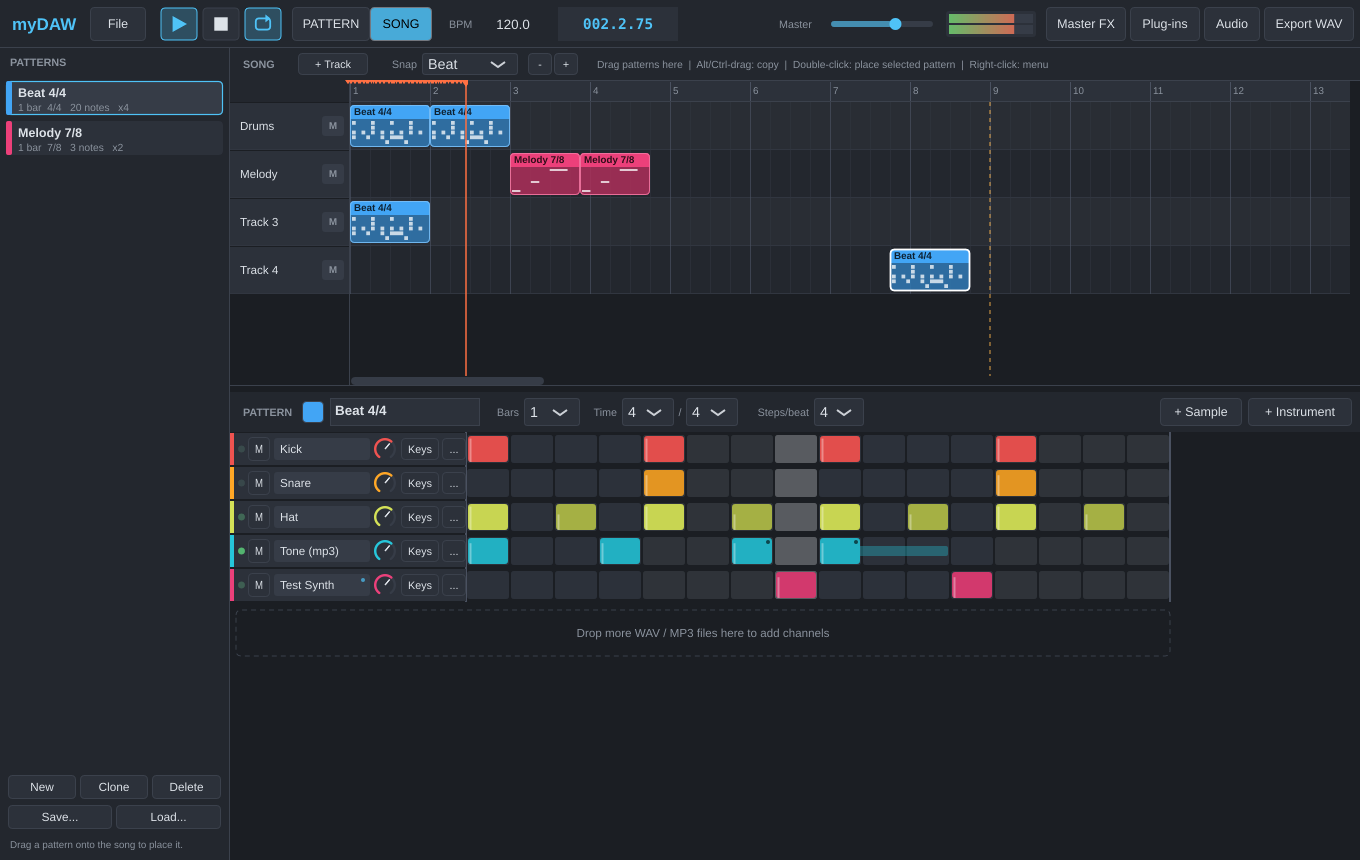
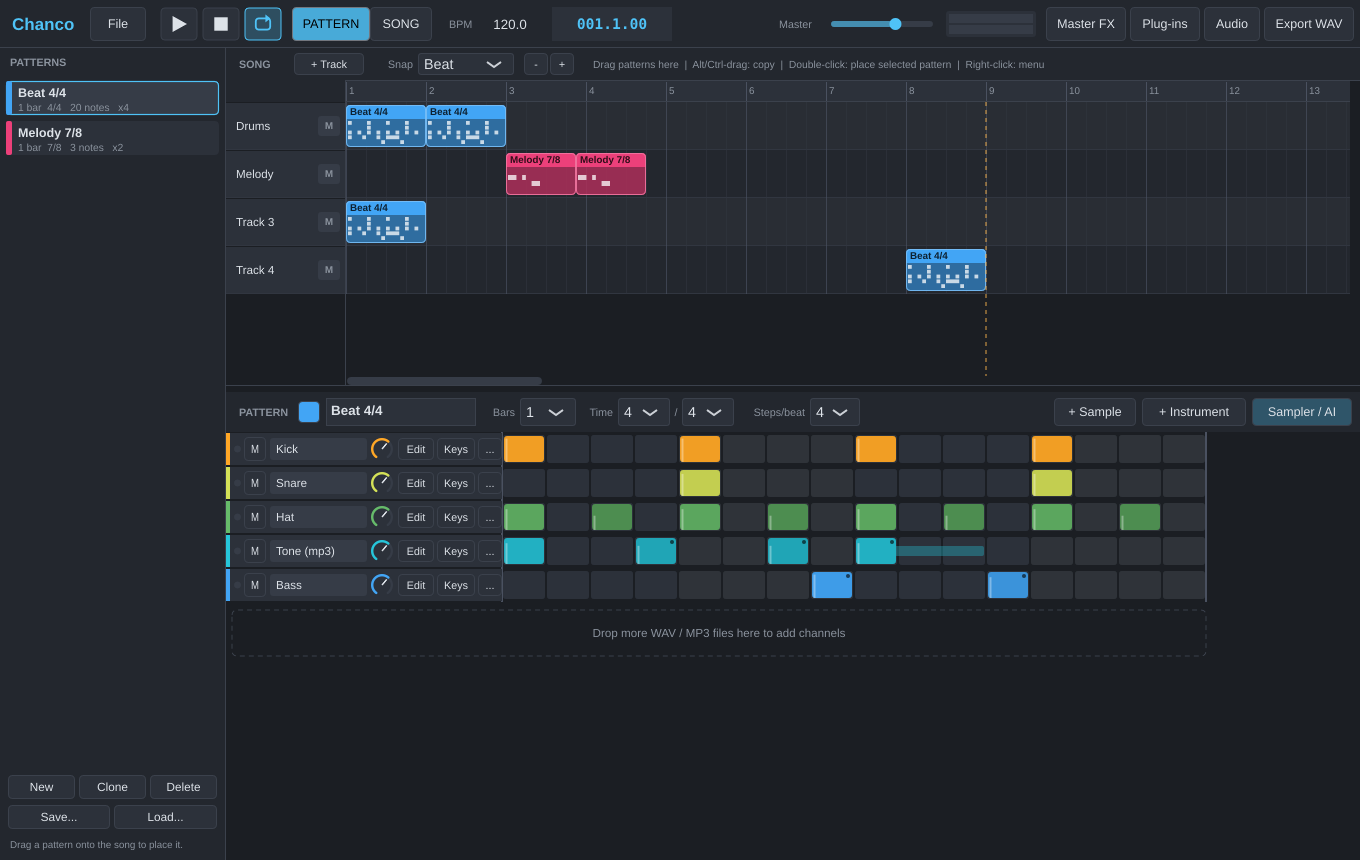
Rename the app to Chanco
- The app, its window, logo, messages, iPhone home screen name and the
  Files app folder are now "Chanco"; so are the executables (Chanco.exe,
  Chanco.app, Chanco) and the release / CI files (Chanco-iOS.ipa ...).
- Kept from the old name, so nothing breaks: the iOS bundle ID (the
  iPhone app updates in place, keeping its projects, and SideStore keeps
  offering updates), the SideStore source ID and URL, the project and
  pattern file formats (.mydaw / .mdpat) and the GitHub repository.
- Settings (audio device, recent projects, scanned plug-ins) are copied
  from the old "myDAW" settings the first time, and downloaded AI models
  are moved over instead of being downloaded again.
- README and its screenshot show the new name, with a note about the old one.

Claude-Session: https://claude.ai/code/session_01EQ8wDnTLxZ6cTdhxZKypac

diff --git a/Source/Session.cpp b/Source/Session.cpp
@@ -393,7 +393,7 @@ Result Session::saveProject (const File& file)
     var root (o);
     const auto baseDir = file.getParentDirectory();
 
-    o->setProperty ("format", "myDAW");
+    o->setProperty ("format", "myDAW");   // the app's old name; kept so files stay compatible
     o->setProperty ("version", 1);
     o->setProperty ("bpm", project.bpm);
     o->setProperty ("songBeatsPerBar", project.songBeatsPerBar);
@@ -449,7 +449,7 @@ Result Session::loadProject (const File& file, StringArray& warnings)
     const auto root = JSON::parse (file.loadFileAsString());
 
     if (! root.isObject() || root.getProperty ("format", "").toString() != "myDAW")
-        return Result::fail (file.getFileName() + " is not a myDAW project file.");
+        return Result::fail (file.getFileName() + " is not a Chanco project file.");
 
     const auto baseDir = file.getParentDirectory();
     Project p;
@@ -763,7 +763,7 @@ File Session::getEditedSamplesFolder() const
     if (projectFile != File())
         return projectFile.getParentDirectory().getChildFile (projectFile.getFileNameWithoutExtension() + " Samples");
 
-    return File::getSpecialLocation (File::userDocumentsDirectory).getChildFile ("myDAW").getChildFile ("Edited Samples");
+    return File::getSpecialLocation (File::userDocumentsDirectory).getChildFile ("Chanco").getChildFile ("Edited Samples");
 }
 
 Result Session::writeEditedSamples (const File& folder)
@@ -996,7 +996,7 @@ Result Session::exportPattern (int patternId, const File& file)
 
     auto* o = new DynamicObject();
     var root (o);
-    o->setProperty ("format", "myDAW-pattern");
+    o->setProperty ("format", "myDAW-pattern");   // the app's old name; kept so files stay compatible
     o->setProperty ("version", 1);
     o->setProperty ("pattern", p->toVar());
 
@@ -1023,7 +1023,7 @@ Result Session::importPattern (const File& file, StringArray& warnings)
     const auto root = JSON::parse (file.loadFileAsString());
 
     if (! root.isObject() || root.getProperty ("format", "").toString() != "myDAW-pattern")
-        return Result::fail (file.getFileName() + " is not a myDAW pattern file.");
+        return Result::fail (file.getFileName() + " is not a Chanco pattern file.");
 
     std::map<int, int> channelMap;
     bool addedChannels = false;

diff --git a/Source/AI/StemSeparation.cpp b/Source/AI/StemSeparation.cpp
@@ -301,16 +301,26 @@ String Stems::getModelUrl (ModelType type)
 
 File Stems::getModelsFolder()
 {
-    auto folder = File::getSpecialLocation (File::userApplicationDataDirectory).getChildFile ("myDAW").getChildFile ("Models");
+    auto base = File::getSpecialLocation (File::userApplicationDataDirectory);
 
    #if JUCE_WINDOWS
     // demucs.cpp opens the model with fopen(), which cannot open non-ASCII paths on Windows
     // (e.g. a Japanese user name). C:\ProgramData is always ASCII.
-    if (! isAscii (folder.getFullPathName()))
-        folder = File::getSpecialLocation (File::commonApplicationDataDirectory).getChildFile ("myDAW").getChildFile ("Models");
+    if (! isAscii (base.getChildFile ("Chanco").getChildFile ("Models").getFullPathName()))
+        base = File::getSpecialLocation (File::commonApplicationDataDirectory);
    #else
     ignoreUnused (isAscii);
    #endif
+
+    const auto folder = base.getChildFile ("Chanco").getChildFile ("Models");
+
+    // The app was called "myDAW" before: move models downloaded back then instead of
+    // downloading them again (or keep using them where they are if they cannot be moved).
+    const auto oldFolder = base.getChildFile ("myDAW").getChildFile ("Models");
+
+    if (! folder.isDirectory() && oldFolder.isDirectory()
+         && ! (folder.getParentDirectory().createDirectory() && oldFolder.moveFileTo (folder)))
+        return oldFolder;
 
     return folder;
 }

diff --git a/Source/AppCore.h b/Source/AppCore.h
@@ -12,10 +12,11 @@ public:
     AppCore()
     {
         PropertiesFile::Options options;
-        options.applicationName = "myDAW";
+        options.applicationName = "Chanco";
         options.filenameSuffix = ".settings";
-        options.folderName = "myDAW";
+        options.folderName = "Chanco";
         options.osxLibrarySubFolder = "Application Support";
+        takeOverOldSettings (options);
         properties.setStorageParameters (options);
 
         plugins = std::make_unique<PluginManager> (*properties.getUserSettings());
@@ -63,6 +64,21 @@ public:
             properties.getUserSettings()->setValue ("audioDevice", xml.get());
 
         properties.saveIfNeeded();
+    }
+
+    /** The app was called "myDAW" before: start from its settings (audio device, recent
+        projects, scanned plug-ins) the first time. */
+    static void takeOverOldSettings (const PropertiesFile::Options& options)
+    {
+        auto oldOptions = options;
+        oldOptions.applicationName = "myDAW";
+        oldOptions.folderName = "myDAW";
+
+        const auto file = options.getDefaultFile();
+        const auto oldFile = oldOptions.getDefaultFile();
+
+        if (! file.existsAsFile() && oldFile.existsAsFile() && file.getParentDirectory().createDirectory())
+            oldFile.copyFileTo (file);
     }
 
     ApplicationProperties properties;

diff --git a/Source/UI/AppFiles.cpp b/Source/UI/AppFiles.cpp
@@ -88,7 +88,7 @@ String AppFiles::describeLocation (const File& f)
                                                                                             false, false);
     if (relative.isNotEmpty())
         return "Files app > On My " + String (SystemStats::getDeviceDescription().containsIgnoreCase ("iPad") ? "iPad" : "iPhone")
-               + " > myDAW > " + relative.replace ("/", " > ");
+               + " > Chanco > " + relative.replace ("/", " > ");
    #endif
 
     return f.getFullPathName();
@@ -158,8 +158,8 @@ void AppFiles::chooseFileToSave (std::unique_ptr<FileChooser>& holder, const Sav
 
     askForText (request.title,
                 "Saved on this " + String (SystemStats::getDeviceDescription().containsIgnoreCase ("iPad") ? "iPad" : "iPhone")
-                    + " in the myDAW folder (Files app > On My "
-                    + (SystemStats::getDeviceDescription().containsIgnoreCase ("iPad") ? "iPad" : "iPhone") + " > myDAW).",
+                    + " in the Chanco folder (Files app > On My "
+                    + (SystemStats::getDeviceDescription().containsIgnoreCase ("iPad") ? "iPad" : "iPhone") + " > Chanco).",
                 request.suggestedFile.getFileNameWithoutExtension(), "Save", request.parent,
                 [folder, extension, done] (const String& name)
     {

diff --git a/Source/Main.cpp b/Source/Main.cpp
@@ -8,7 +8,7 @@ class MainWindow : public AppWindow
 {
 public:
     explicit MainWindow (AppCore& c)
-        : AppWindow ("myDAW", Touch::isMobile() ? 0 : DocumentWindow::allButtons), core (c)
+        : AppWindow ("Chanco", Touch::isMobile() ? 0 : DocumentWindow::allButtons), core (c)
     {
         content = new MainComponent (core);
         setContentOwned (content, ! Touch::isMobile());
@@ -64,7 +64,7 @@ public:
         LookAndFeel::setDefaultLookAndFeel (&lookAndFeel);
         const auto args = getCommandLineParameterArray();
 
-        // Command-line rendering:  myDAW --render song.mydaw out.wav [--samplerate 48000]
+        // Command-line rendering:  Chanco --render song.mydaw out.wav [--samplerate 48000]
         if (const auto index = args.indexOf ("--render"); index >= 0)
         {
             renderFromCommandLine (args, index);
@@ -164,7 +164,7 @@ private:
         };
 
         if (index + 2 >= args.size())
-            return fail ("Usage: myDAW --render <project.mydaw> <output.wav> [--samplerate 48000]");
+            return fail ("Usage: Chanco --render <project.mydaw> <output.wav> [--samplerate 48000]");
 
         const auto cwd = File::getCurrentWorkingDirectory();
         const auto projectFile = cwd.getChildFile (args[index + 1]);

diff --git a/.github/scripts/make_sidestore_source.py b/.github/scripts/make_sidestore_source.py
@@ -5,7 +5,7 @@ The version numbers come from the built app's Info.plist, because SideStore chec
 that the downloaded app matches what the source says.
 
 Usage:
-  make_sidestore_source.py --app myDAW.app --ipa myDAW-iOS.ipa --repo owner/name \
+  make_sidestore_source.py --app Chanco.app --ipa Chanco-iOS.ipa --repo owner/name \
                            --tag build-42 --sha <commit> --out source.json
 """
 
@@ -49,16 +49,18 @@ def main():
     )
 
     source = {
-        "name": "myDAW",
+        "name": "Chanco",
+        # (from the bundle ID, which keeps the app's old name: changing the identifier would
+        # make SideStore treat this as a new source)
         "identifier": f"{bundle_id}.source",
-        "subtitle": "myDAW for iPhone and iPad",
+        "subtitle": "Chanco for iPhone and iPad",
         "description": description,
         "iconURL": icon_url,
         "website": repo_url,
         "tintColor": "#4FC3F7",
         "apps": [
             {
-                "name": "myDAW",
+                "name": "Chanco",
                 "bundleIdentifier": bundle_id,
                 "developerName": args.repo.split("/")[0],
                 "subtitle": "Pattern-based DAW",

diff --git a/Source/UI/MainComponent.cpp b/Source/UI/MainComponent.cpp
@@ -23,7 +23,7 @@ MainComponent::MainComponent (AppCore& c)
     transport.onAudioSettings = [this] (Component&) { showAudioSettings(); };
     transport.onExportWav = [this] { exportWav(); };
 
-    auto errorHandler = [] (const String& message) { showMessage ("myDAW", message); };
+    auto errorHandler = [] (const String& message) { showMessage ("Chanco", message); };
     patternList.onError = errorHandler;
     patternEditor.onError = errorHandler;
 
@@ -141,7 +141,7 @@ void MainComponent::sessionChanged (int changes)
 
 String MainComponent::getWindowTitle() const
 {
-    return session.getProjectName() + (session.isDirty() ? " *" : "") + " - myDAW";
+    return session.getProjectName() + (session.isDirty() ? " *" : "") + " - Chanco";
 }
 
 void MainComponent::showMessage (const String& title, const String& message, bool warning)

diff --git a/Source/UI/AppFiles.h b/Source/UI/AppFiles.h
@@ -7,7 +7,7 @@
     Desktop: the native file dialogs.
 
     iPhone / iPad: apps can only keep files in their own container. The app's "Documents"
-    folder is shown in the Files app as "On My iPhone > myDAW", so that is where projects,
+    folder is shown in the Files app as "On My iPhone > Chanco", so that is where projects,
     patterns and exports are saved (the app asks for a name instead of showing a save dialog).
     Files picked from other places (iCloud Drive, other apps ...) can only be read for a moment,
     so they are copied into Documents first; projects then keep working. */

diff --git a/Source/UI/Sampler.cpp b/Source/UI/Sampler.cpp
@@ -1010,7 +1010,7 @@ void SamplerComponent::loadModelFromFile()
     request.initialFolder = File::getSpecialLocation (File::userHomeDirectory).getChildFile ("Downloads");
     request.wildcard = "*.bin";
     request.appFileType = true;
-    request.copyInto = File::getSpecialLocation (File::tempDirectory).getChildFile ("myDAW model");
+    request.copyInto = File::getSpecialLocation (File::tempDirectory).getChildFile ("Chanco model");
 
     AppFiles::chooseFilesToOpen (chooser, request, [safe = SafePointer<SamplerComponent> (this), temp = request.copyInto] (const Array<File>& files)
     {

diff --git a/Source/UI/TransportBar.cpp b/Source/UI/TransportBar.cpp
@@ -80,7 +80,7 @@ void TransportBar::paint (Graphics& g)
     {
         g.setColour (Theme::accent);
         g.setFont (Theme::font (19.0f, true));
-        g.drawText ("myDAW", 12, 0, 80, getHeight(), Justification::centredLeft);
+        g.drawText ("Chanco", 12, 0, 80, getHeight(), Justification::centredLeft);
     }
 }
 

diff --git a/Tests/IntegrationTests.cpp b/Tests/IntegrationTests.cpp
@@ -1,4 +1,4 @@
-/*  Integration tests for the myDAW engine.
+/*  Integration tests for the Chanco engine.
 
     Usage:  myDAWTests [path/to/InstrumentPlugin.vst3 path/to/EffectPlugin.vst3]
 
